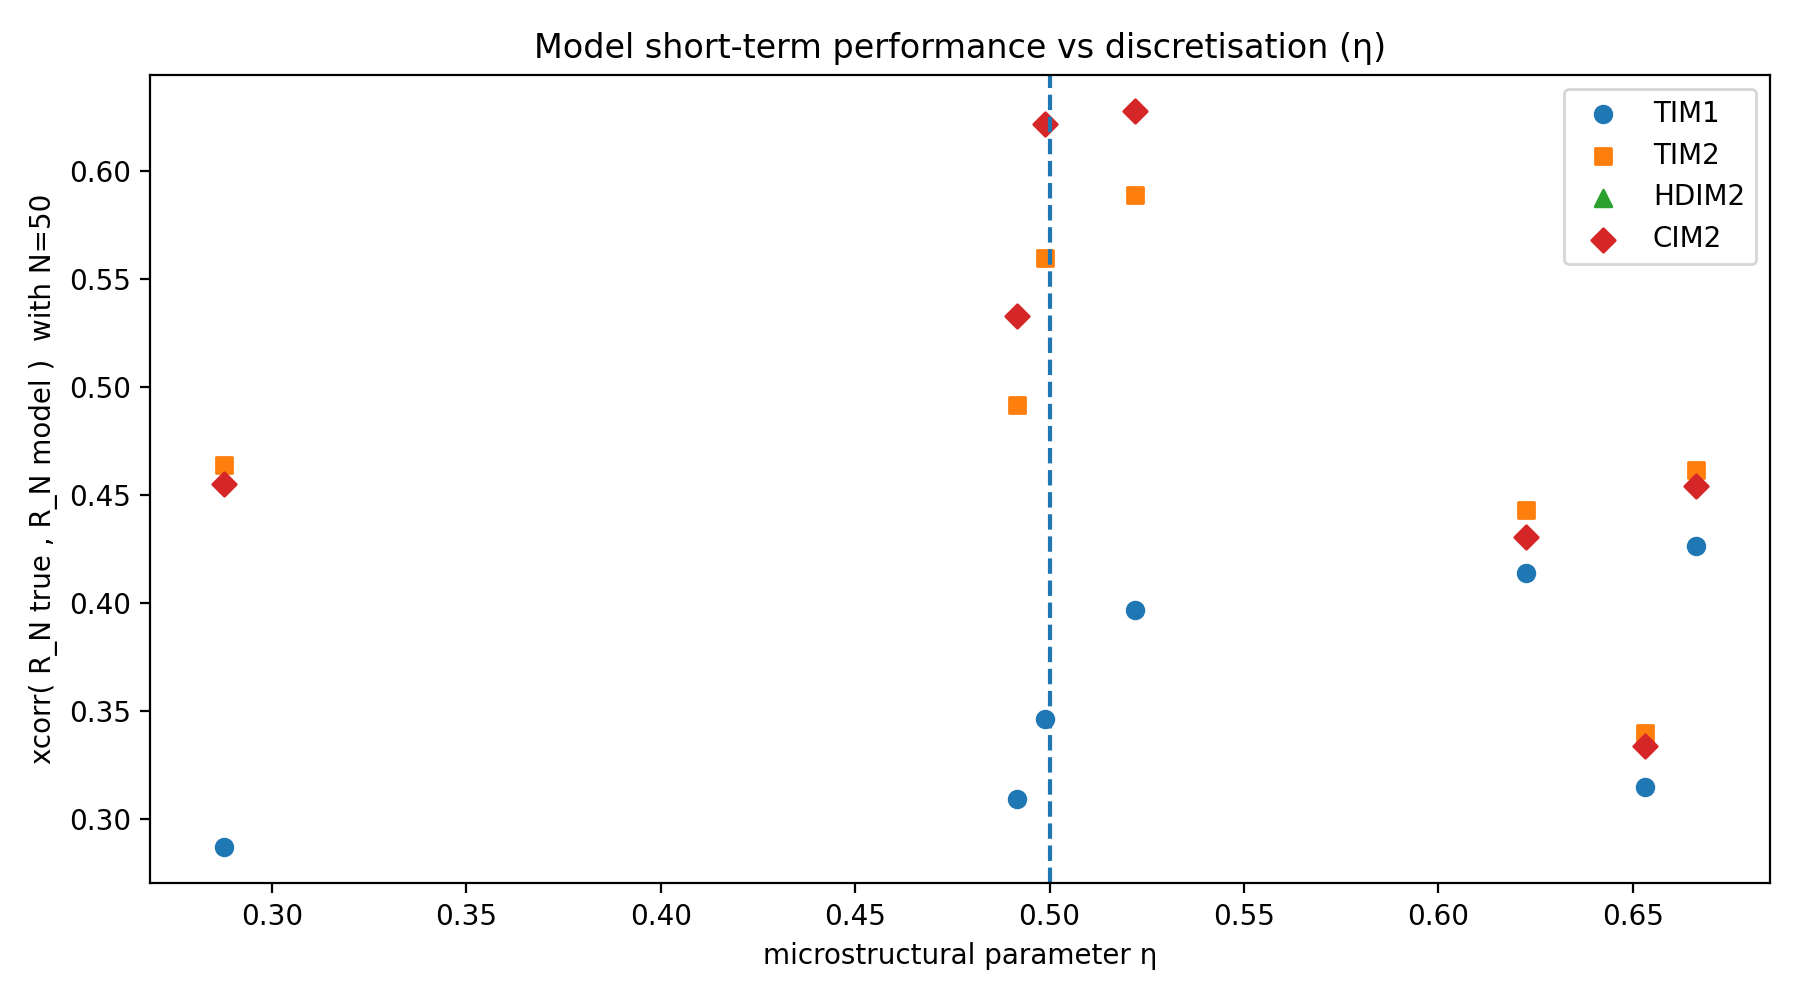
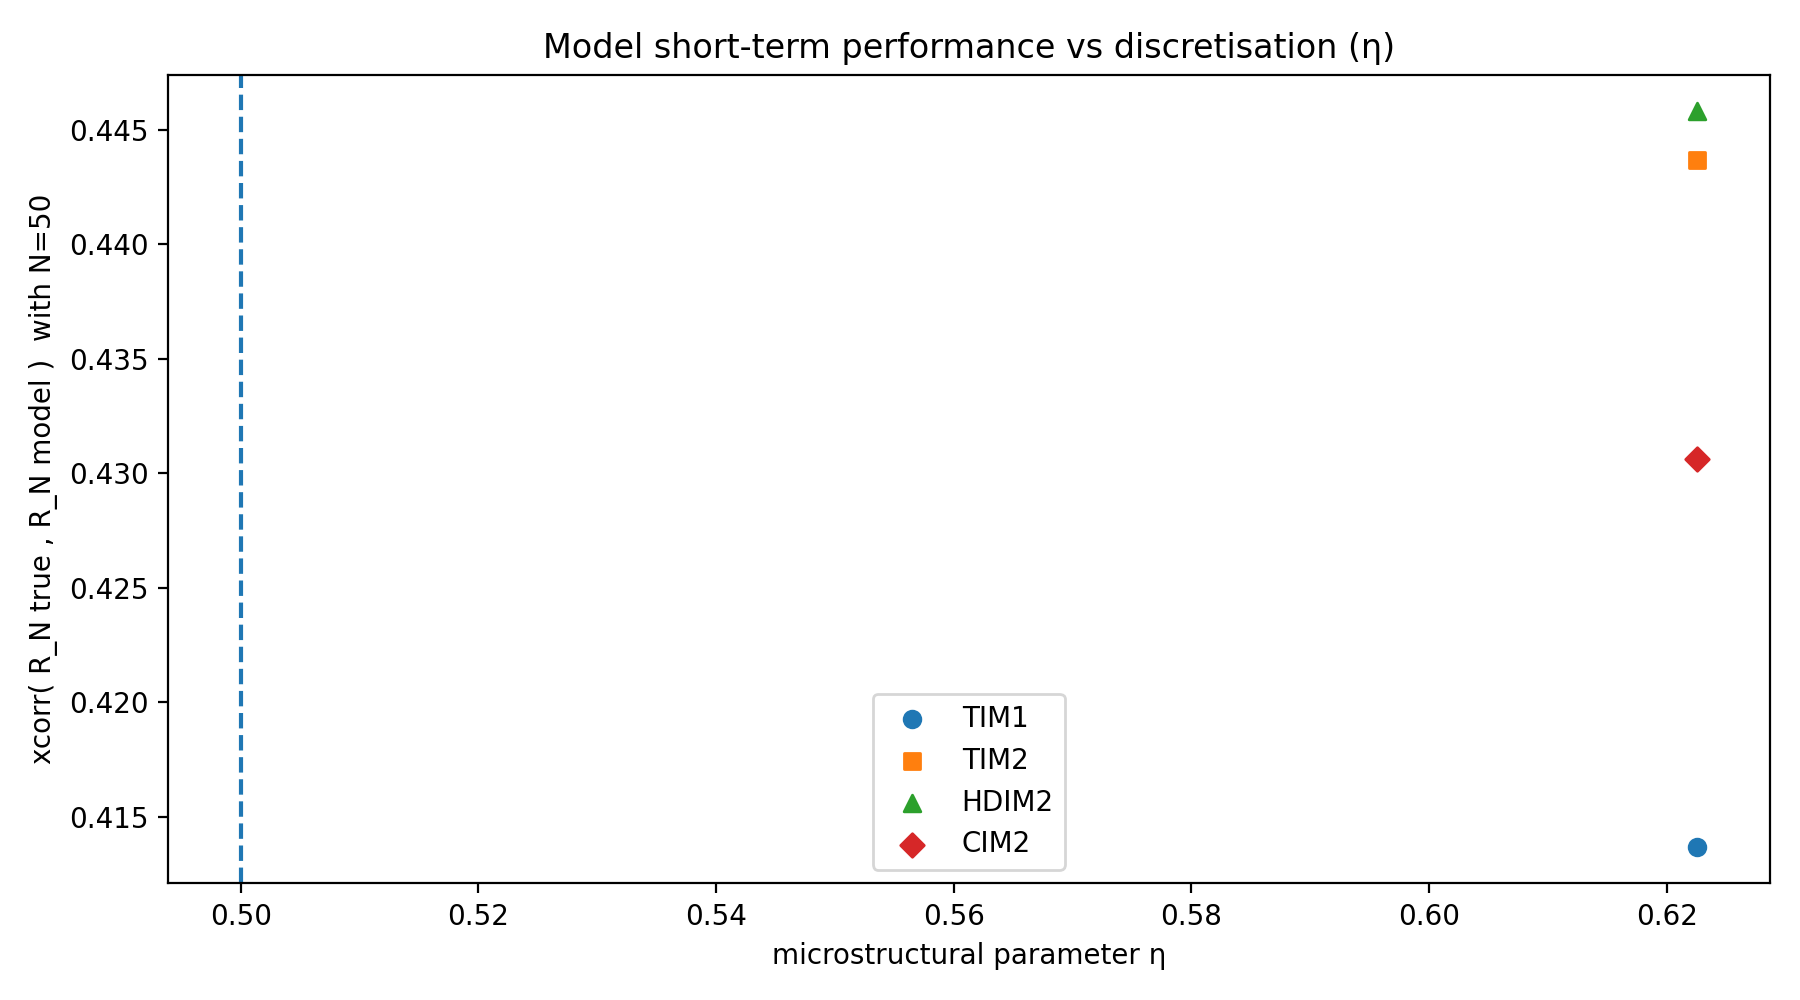
fixed HDIM2

diff --git a/flash_crash_detection_A.py b/flash_crash_detection_A.py
@@ -90,8 +90,9 @@ def calibrate_on_train(tt_train: pd.DataFrame, models: list[str]) -> dict:
     """
     tt_train = tt_train.copy()
     pp_batch.complete_data_columns(tt_train, split_dates=False)
-
-    use_group = ("hdim2" in models)  # faster + avoids nasty edge cases
+    #use_group = ("hdim2" in models)  # faster + avoids nasty edge cases
+    use_group = False
+    print("entrera")
     cal = pp_batch.calibrate_models(
         tt_train,
         nfft="pad",
@@ -144,7 +145,6 @@ def run_modeA_for_ticker(
     models: list[str] = ["cim", "tim1", "tim2", "hdim2"],
 ) -> None:
     tt = load_ticker_tt(CLEAN_ROOT, ticker)
-
     tt_train = tt[tt["date"] < CRASH_DAY].copy()
     tt_test = tt[tt["date"] == CRASH_DAY].copy()
 
@@ -174,8 +174,10 @@ def run_modeA_for_ticker(
 
     # choose alarm model (prefer HDIM2 > TIM2 > TIM1 > CIM)
     if "hdim2" in models and "r_hdim2" in pred_test.columns:
+        print("lele")
         alarm_model = "r_hdim2"
     elif "tim2" in models and "r_tim2" in pred_test.columns:
+        print("lele")
         alarm_model = "r_tim2"
     elif "tim1" in models and "r_tim1" in pred_test.columns:
         alarm_model = "r_tim1"
@@ -187,13 +189,17 @@ def run_modeA_for_ticker(
     mu = np.nanmean(train_Rpred)
     sd = np.nanstd(train_Rpred)
     pred_thresh = mu - PRED_Z * sd
-
     # forward predicted sums for each model on crash day
     series = {}
     for col in ["r_cim", "r_tim1", "r_tim2", "r_hdim2"]:
         if col in pred_test.columns:
             series[col] = rolling_sum_forward(pred_test[col].to_numpy(), N_HORIZON)
 
+    ## MSE between true and predicted
+    for col in ["r_cim", "r_tim1", "r_tim2", "r_hdim2"]:
+        if col in series:
+            mse = np.nanmean((r_true - series[col]) ** 2)
+            print(f"  MSE({col}): {mse:.6g}")
     Rpred_alarm = series[alarm_model]
     alarm_idx = first_crossing(Rpred_alarm, pred_thresh)
 
@@ -272,4 +278,6 @@ def run_modeA_for_ticker(
 
 if __name__ == "__main__":
     # Now includes HDIM2
-    run_modeA_for_ticker("ORCL.OQ", models=["cim", "tim1", "tim2"])
+    run_modeA_for_ticker("ORCL.OQ", models=["cim", "tim1", "tim2", "hdim2"])
+    # run_modeA_for_ticker("ORCL.OQ", models=["cim", "tim1", "hdim2"])
+    # run_modeA_for_ticker("ORCL.OQ", models=["hdim2"])

diff --git a/priceprop/batch.py b/priceprop/batch.py
@@ -72,7 +72,6 @@ def calibrate_models(
     Calculate sign & price change correlations, response functions, 
     and fitted propagator kernels for trades in DataFrame.
     """
-    
     # store results
     res = {}
     
@@ -81,13 +80,12 @@ def calibrate_models(
     
     # apply intra-day mask
     tt = tt[mask0]
-        
     # get same optimal nfft used by pna functions
     nfft_opt, events_required = scorr.get_nfft(nfft, tt.groupby('date')['r1'])
-    maxlag = int(min(nfft_opt/2, events_required))
-    
+    # maxlag = int(min(nfft_opt/2, events_required))
+    maxlag = 256  ###########################################    
     res['maxlag'] = maxlag
-    
+    print(maxlag)
     # correlations and responses
     # ------------------------------------------------------------------------
     kwargs = {'subtract_mean': False, 'norm': 'cov'}
@@ -106,9 +104,11 @@ def calibrate_models(
         res['nccorr'] = scorr.fftcrop(scorr.xcorr(sn, sc, **kwargs), maxlag)
         # triple cross correlations
         if 'hdim2' in models:
+            print("a")
             res['ccccorr'] = scorr.x3corr(
                 c, sc, sc, nfft=2*maxlag, pad=maxlag, **kwargs
             )
+            print("b")
             res['nnccorr'] = scorr.x3corr(
                 c, sn, sn, nfft=2*maxlag, pad=maxlag, **kwargs
             )
